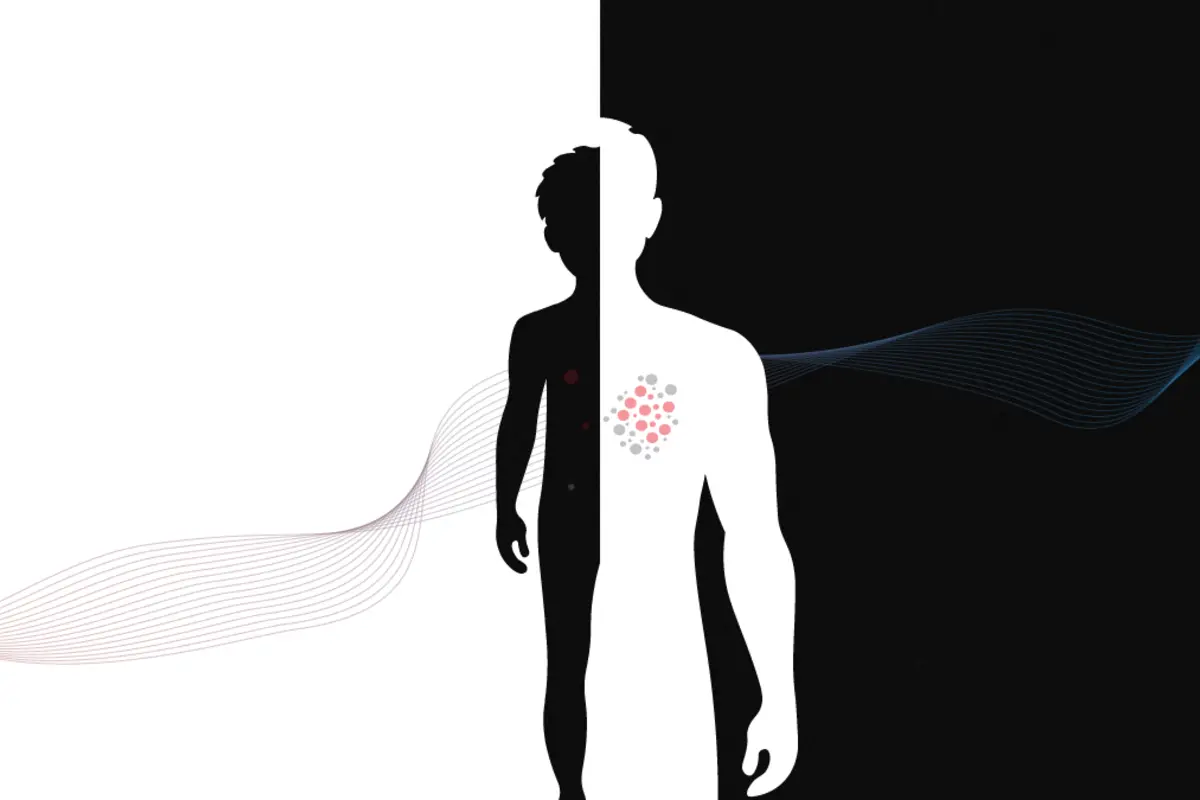
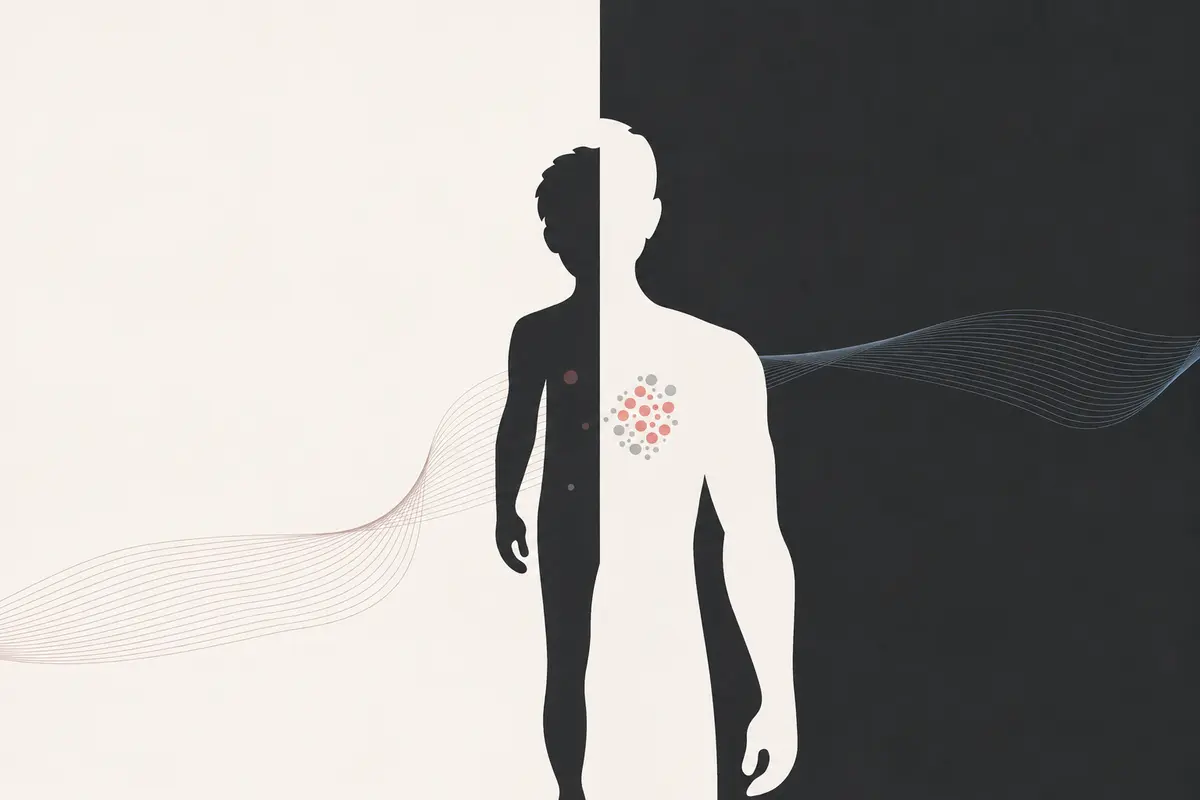
Harmonize research visuals and link Scholar

diff --git a/app/page.tsx b/app/page.tsx
@@ -237,7 +237,15 @@ export default function Home() {
         </div>
 
         <p className="publication-note">
-          A complete publication record will be linked through Google Scholar.
+          For a complete publication record, visit{" "}
+          <a
+            href="https://scholar.google.com/citations?user=MCfaK84AAAAJ&hl=en"
+            target="_blank"
+            rel="noreferrer"
+          >
+            Google Scholar
+          </a>
+          .
         </p>
       </section>
 

diff --git a/app/globals.css b/app/globals.css
@@ -422,6 +422,14 @@ h1 {
   margin: 24px 0 0 94px;
 }
 
+.publication-note a {
+  text-decoration: underline;
+  text-decoration-color: rgba(35, 42, 42, 0.35);
+  text-underline-offset: 3px;
+}
+
+.publication-note a:hover { text-decoration-color: currentColor; }
+
 .contact {
   background: var(--sage);
   color: var(--white);
